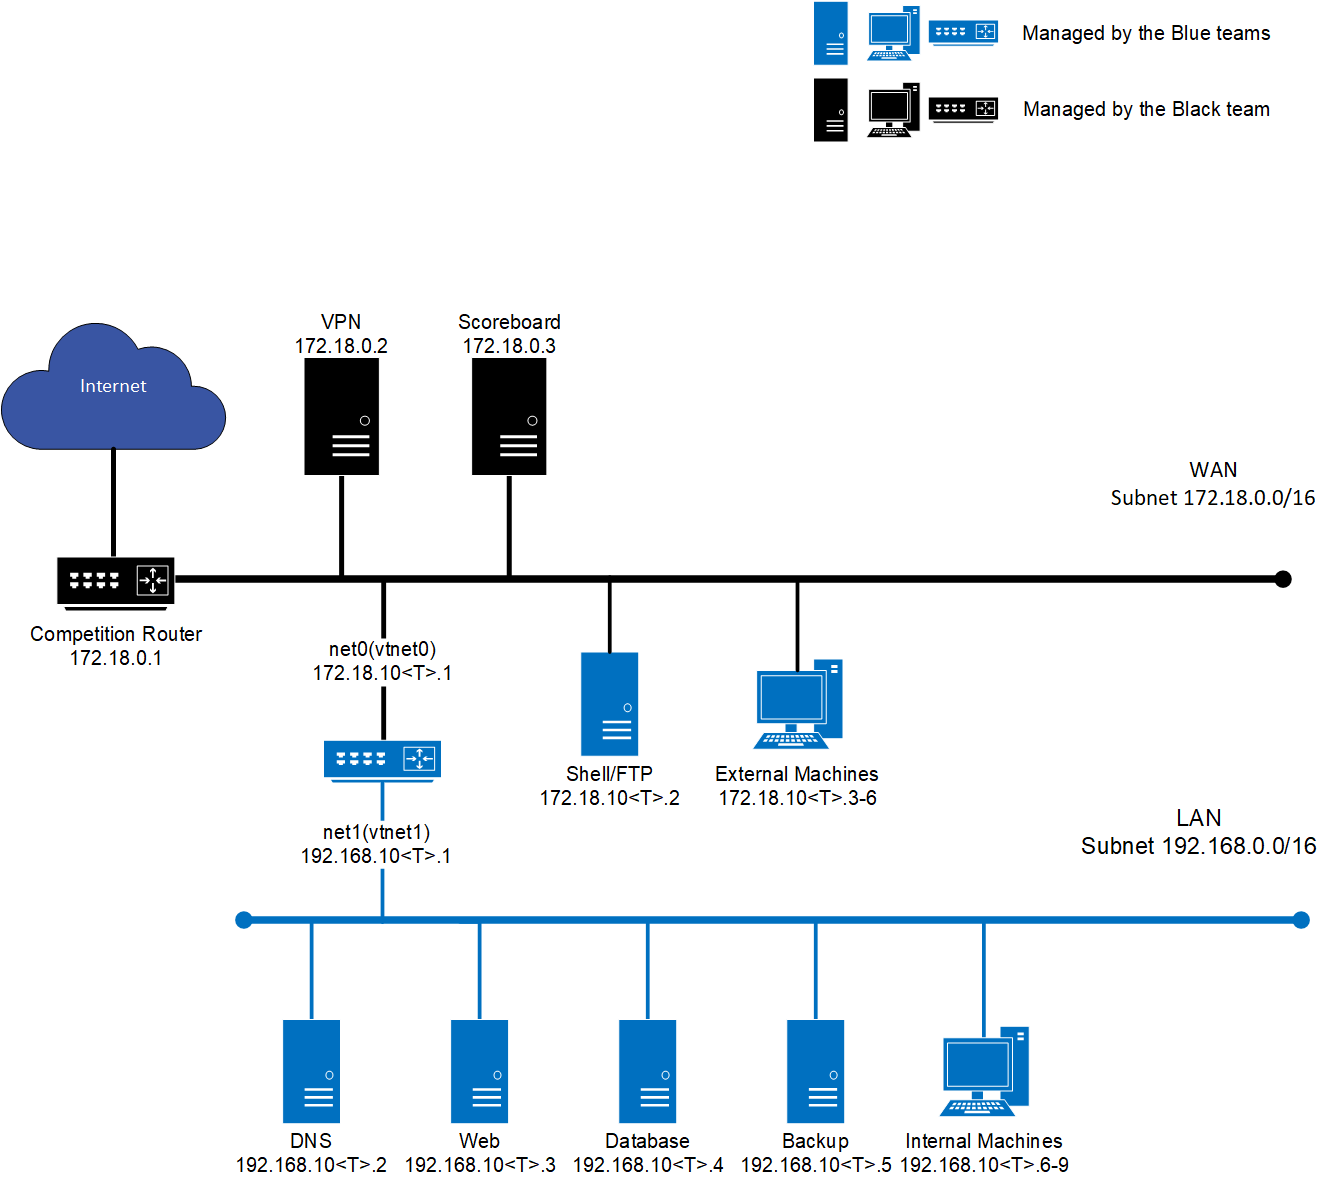
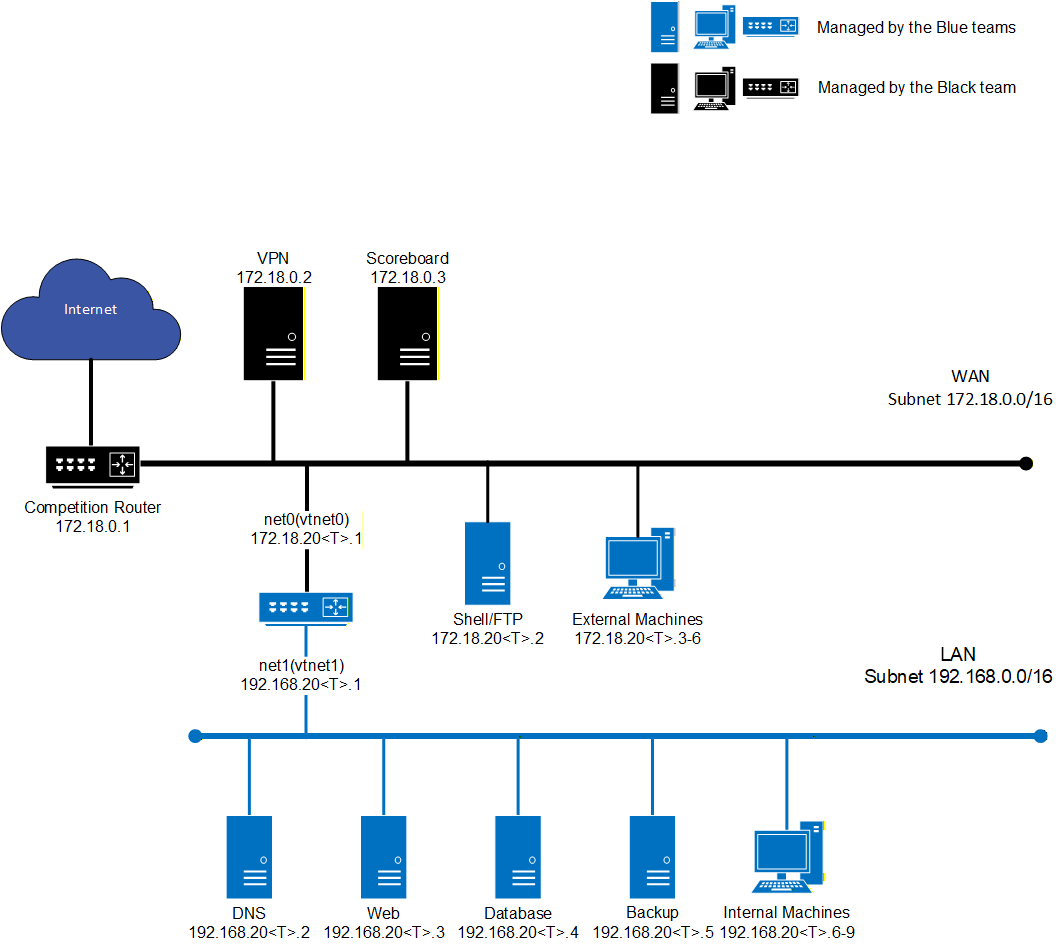
try out updates

diff --git a/labInstructions/teamLab1.md b/labInstructions/teamLab1.md
@@ -1,44 +1,43 @@
-# IT&C 515R - Applications of Cybersecurity Team Lab 1
+# NCAE Cyber Games Tryouts
 
 ## Introduction
 
-The purpose of this lab will be to test the skills you have developed over the semester by setting up and securing your network. There will be no red team for this assignment it will be a test in setting up debugging and securing your systems.
+Welcome to the NCAE CyberGames Tryouts. This will give you an introduction to what the competition is like and give you practice in setting up and securing your assigned network.
+
+You will be assessed based on maintaining the availability, functionality, and security of services in your network and preparedness. There will be no red team, so this tryout focuses entirely on defense, debugging, and service availability.
 
 ## Instructions
 
-To sum up the lab, you will get points when services are working as they should, and you won't get points when they are not working. 
+To sum it up, you will get points when services are working as they should, and you won't get points when they are not working. 
 
-You will be working in teams of up to 5. There will be a scoreboard that will show the status of each service which will update every minute. The scoreboard is located at [`172.18.0.3`](http://172.18.0.3/team-lab/1#) and is only accessible when you are connected to the VPN. The assignment will start at 09:00 on February 22nd and end at 16:00 on February 22nd. There will be a 1 hour break between noon and 13:00 where scoring will pause, and so will VM access.
+During the tryouts, you will be working alone, but in the competition, you will be in teams of 10. There will be a scoreboard that will show the status of each service, which will update every minute. The scoreboard is located at [`172.18.0.3`](http://172.18.0.3/team-lab/1#) and is only accessible when you are connected to the VPN. 
 
-You will not receive any help to debug your systems or set up any of your services. If you have a question about scoring, you may message the black team over Slack.
+You will not receive any help to debug your systems or set up any of your services. If you have a question about scoring, please talk to Sebastian or Macen.
 
 ## Rules
 
-### Lab Conduct
-
-1. Throughout the lab, black team members may occasionally need access to a team's system(s) for scoring, troubleshooting, etc. Teams must immediately allow access when requested.
-1. Team members are forbidden from entering or attempting to enter another team's lab workspace or room.
-1. Teams are forbidden from collaborating with or communicating with other teams in any way. All questions should be directed towards the Black Team.
-1. Teams must complete the lab without "outside assistance" from non-team members from the start of the lab to the end of the lab. All private communications (calls, emails, chat, texting, directed emails, forum postings, conversations, requests for assistance, etc.) with non-team members that would help the team gain an unfair advantage are not allowed.
-1. Teams are free to secure their systems, but no offensive activity against any system outside the team's assigned network(s), including those of other teams, will be tolerated. Any team performing offensive activity against any system outside the team's assigned network(s) will immediately fail the lab. If there are any questions or concerns during the lab about whether or not specific actions can be considered offensive, contact the Black Team before performing those actions.
-1. Teams are allowed to use active response mechanisms such as TCP resets when responding to suspicious/malicious activity. Any active mechanisms that interfere with the functionality of the scoring engine or manual scoring checks are exclusively the responsibility of the teams. Any firewall rule, IDS, IPS, or defensive action that interferes with the functionality of the scoring engine or manual scoring checks is exclusively the responsibility of the Blue Team.
+1. Throughout the tryouts, black team members may occasionally need access to a team's system(s) for scoring, troubleshooting, etc. Participants must immediately allow access when requested.
+1. Participants are forbidden from collaborating with or communicating with other Participants in any way. All questions should be directed towards the Black Team.
+1. Participants must complete the tryout without "outside assistance" from the start of the tryout to the end of the lab. All private communications (calls, emails, chat, texting, directed emails, forum postings, conversations, requests for assistance, etc.) with others that would help the Participants gain an unfair advantage are not allowed.
+1. Participants are free to secure their systems, but no offensive activity against any system outside the Participants' assigned network(s), including those of other Participants, will be tolerated. Any Participant performing an offensive activity against any system outside the Participant's assigned network(s) will immediately fail the lab. If you have any questions or concerns during the tryout about whether specific actions can be considered offensive, please contact the Black Team before performing those actions.
+1. Participants are allowed to use active response mechanisms such as TCP resets when responding to suspicious/malicious activity. Any active mechanisms that interfere with the functionality of the scoring engine or manual scoring checks are exclusively the responsibility of the Participants. Any firewall rule, IDS, IPS, or defensive action that interferes with the functionality of the scoring engine or manual scoring checks is exclusively the responsibility of the Blue Team.
 
 ### Internet Usage
 
-1. Public internet resources such as FAQs, how-to's, existing forums and responses, and company websites are completely valid to be used for the lab provided there is no fee required to access those resources and access to those resources has not been granted based on a previous membership, purchase, or fee.
+1. Public internet resources such as FAQs, how-to's, existing forums and responses, and company websites are completely valid to be used for the tryout, provided there is no fee required to access those resources and access to those resources has not been granted based on a previous membership, purchase, or fee.
 1. Only resources that could reasonably be available to all teams are permitted. For example, creating a personal public GitHub repository would be prohibited, as no other team would reasonably be able to access the repository.
-1. All Internet resources used during the lab must be freely available to all other teams.
-1. If there are any questions or concerns during the lab about whether or not specific materials are unauthorized, contact the Black Team immediately.
-1. All network activity that takes place on the lab network may be logged and subject to release. We are not responsible for the security of any information, including login credentials, that students place on the lab network.
+1. All Internet resources used during the tryout must be freely available to all other teams.
+1. If there are any questions or concerns during the tryout about whether or not specific materials are unauthorized, contact the Black Team immediately.
+1. All network activity that takes place on the tryout network may be logged and subject to release. We are not responsible for the security of any information, including login credentials, that students place on the tryout network.
 
 ### Questions, Disputes, and Disclosures
 
-1. Protests by any team must be presented in writing by the Team Captain as soon as possible. The Black Team will be the final arbitrators for any protests or questions arising before, during, or after the lab. Rulings by the Black Team are final.
+1. Protests by any team must be presented in writing by the Participants as soon as possible. The Black Team will be the final arbitrators for any protests or questions arising before, during, or after the lab. Rulings by the Black Team are final.
 
 ### Scoring
 
 1. Scoring will be based on keeping required services available and functional and controlling/preventing unauthorized access. Teams accumulate points by successfully maintaining services. 
-1. Any team action that interrupts the scoring system is exclusively the responsibility of that team and will result in a lower score. Any team member that modifies a system or system component, with or without intent, to mislead the scoring engine into assessing a system or service as operational, when in fact it is not, may be disqualified and/or the team assessed penalties. Should any question arise about scoring, the scoring engine, or how scoring functions, the Team Captain should immediately contact the Black Team to address the issue.
+1. Any team action that interrupts the scoring system is exclusively the responsibility of that team and will result in a lower score. Any Participants that modifies a system or system component, with or without intent, to mislead the scoring engine into assessing a system or service as operational, when in fact it is not, may be disqualified and/or the team assessed penalties. Should any question arise about scoring, the scoring engine, or how scoring functions, the Team Captain should immediately contact the Black Team to address the issue.
 1. Scoring will occur every 60 seconds, and machine statuses will update every 10 to 30 seconds
 
 ### Scoreboard Key
@@ -48,12 +47,11 @@ You will not receive any help to debug your systems or set up any of your servic
 
 ## Service Requirements
 
-NOTE: Any instance of `<T>` represents your team number. For example, if you're on Team 1, `172.18.100.<T>` translates to `172.18.100.1`
+NOTE: Any instance of `<T>` represents your team number. For example, if you're on Team 1, `172.18.200.<T>` translates to `172.18.200.1`If your Team Number is greater than 9, make sure to take off the extra 0 to leave yourself a valid IP. For example, if you are team 13 and the IP is listed as `172.18.20\<T>.1`, then the IP would be `172.18.213.1` and not `172.18.2013.1` 
 
 ## Network Diagram
 
 ![](./Network-Diagram-Blueteam.png)
-
 
 ### Router 
 
@@ -115,8 +113,8 @@ To score points for SSH, all of the users in the table below must be able to acc
 
 ### DNS
 
-DNS should be available internally at `192.168.10<T>.2`
-DNS should be available externally at `172.18.10<T>.1`
+DNS should be available internally at `192.168.20<T>.2`
+DNS should be available externally at `172.18.20<T>.1`
 DNS Forward lookups for the following domain names point to the corresponding IP.
 DNS Reverse lookups for the following IP Addresses point to the corresponding domain name
 
@@ -124,13 +122,13 @@ DNS Reverse lookups for the following IP Addresses point to the corresponding do
 
 |DNS Address |  IP |    Description |
 | -- | ------- | ------ |
-| ns1.team\<T>.cyberjousting.org | 172.18.10\<T>.1 | Public DNS Nameserver |
-| www.team\<T>.cyberjousting.org | 172.18.10\<T>.1 | Public Web Nameserver |
-| shell.team\<T>.cyberjousting.org | 172.18.10\<T>.2 | Public SSH server |
-| files.team\<T>.cyberjousting.org | 172.18.10\<T>.2 | Public File Share |
-| ns1.team\<T>.net | 192.168.10\<T>.2 | Internal Alias for DNS Server |
-| www.team\<T>.net | 192.168.10\<T>.3 | Internal Alias for Web server |
-| db.team\<T>.net  | 192.168.10\<T>.4 | Internal Alias for MySQL server |
+| ns1.team\<T>.cyberjousting.org | 172.18.20\<T>.1 | Public DNS Nameserver |
+| www.team\<T>.cyberjousting.org | 172.18.20\<T>.1 | Public Web Nameserver |
+| shell.team\<T>.cyberjousting.org | 172.18.20\<T>.2 | Public SSH server |
+| files.team\<T>.cyberjousting.org | 172.18.20\<T>.2 | Public File Share |
+| ns1.team\<T>.net | 192.168.20\<T>.2 | Internal Alias for DNS Server |
+| www.team\<T>.net | 192.168.20\<T>.3 | Internal Alias for Web server |
+| db.team\<T>.net  | 192.168.20\<T>.4 | Internal Alias for MySQL server |
 
 The above addresses containing `.cyberjousting.org` should be publicly available and will be scored through the router and checked for both forward and reverse lookups.
 
@@ -204,7 +202,7 @@ The files are already located in `/mnt/files`
  
 #### Scoring Details
 
-The PostgreSQL services are scored from the internal team network, using the internal IP address of `192.168.10<T>.4`.
+The PostgreSQL services are scored from the internal team network, using the internal IP address of `192.168.20<T>.4`.
 
 - PostgreSQL scoring user: `bill_kaplan`
 - PostgreSQL scoring password: `b1ackjack!`
